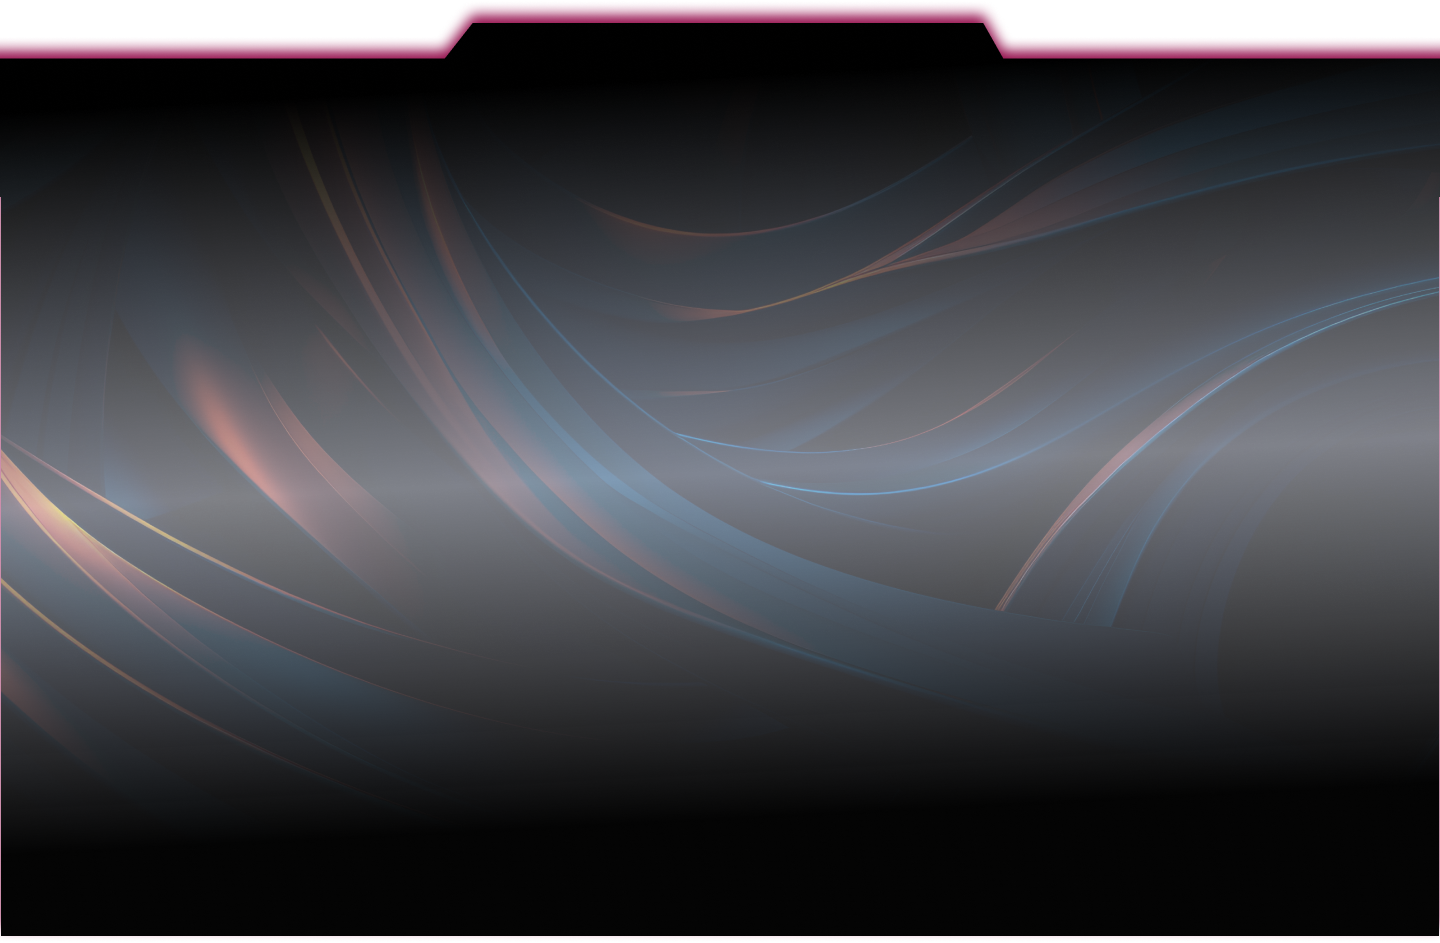
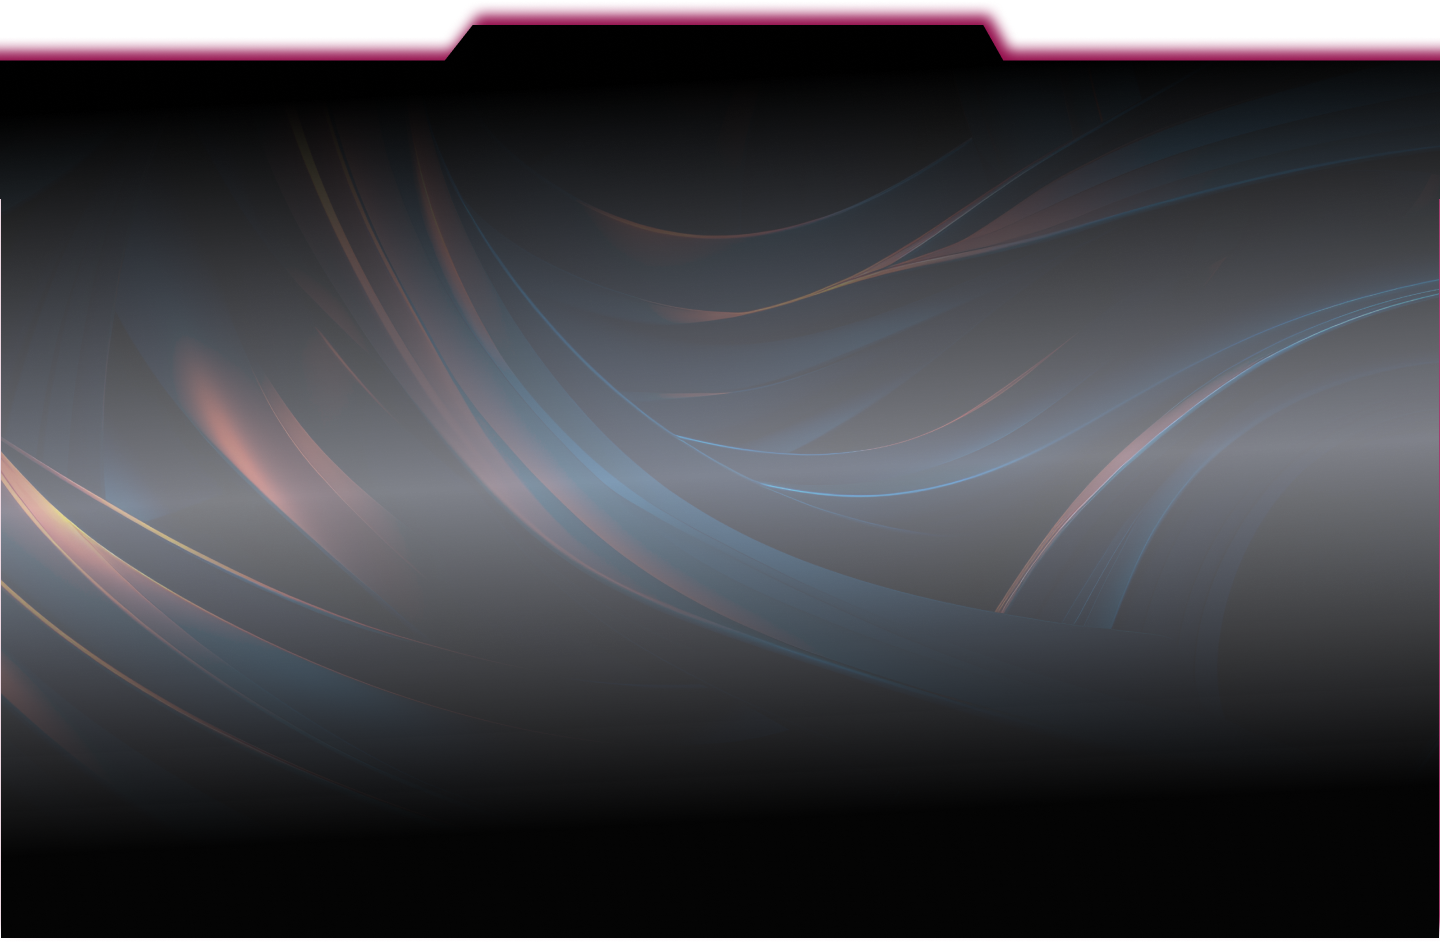
index  work section updated

diff --git a/public/frontend/css/frontend.css b/public/frontend/css/frontend.css
@@ -1218,7 +1218,7 @@ body {
 }
 .rs-img{
     position: absolute;
-    bottom: -100px;
+    bottom: -70px;
     left: 0px;
     z-index: -1;                        
 }

diff --git a/resources/views/frontend/index.blade.php b/resources/views/frontend/index.blade.php
@@ -14,41 +14,51 @@
             background-image: unset;
             backdrop-filter: unset;
         }
-        /* .custom-ctnrfluid.sticky-nav {
+        .custom-ctnrfluid.sticky-nav {
             background-image: url(/frontend/images/index/navbg.svg);
-    background-repeat: no-repeat;
-    background-size: cover;
-    background-position: center;
-    backdrop-filter: blur(29px);
-    display: flex;
-    align-items: center;
-    min-height: 106px;
-    margin-top: 14px;
-    position: fixed;
-    width: 98%;
-    left: 50%;
-    border-radius: 34px;
-    transform: translate(-50%);
-        } */
+            background-repeat: no-repeat;
+            background-size: cover;
+            background-position: center;
+            backdrop-filter: blur(29px);
+            display: flex;
+            align-items: center;
+            min-height: 106px;
+            margin-top: 14px;
+            position: fixed;
+            width: 98%;
+            left: 50%;
+            border-radius: 34px;
+            transform: translate(-50%);
+        }
 
         .smalllarrow-img {
             display: none;
         }
 
         @media (max-width: 576px) {
-            .navsmimg{
-            display: block;
-        }
-        .navsmimg{
-            top:7px;
-        }
-        .custom-ctnrfluid{
-            margin-top: 14px;
-        }
+            .custom-ctnrfluid.sticky-nav {
+                min-height:unset; 
+                background-image: url(/frontend/images/index/index-new/blurhero.svg));
+                background-repeat: no-repeat;
+                background-size: cover;
+                background-position: center;
 
-        .custom-ctnrfluid.sticky-nav{
-            margin-top: 7px;
-        }
+            }
+
+    
+        .navsmimg{
+            display: block;
+            }
+            .navsmimg{
+                top:7px;
+            }
+            .custom-ctnrfluid{
+                margin-top: 14px;
+            }
+
+            .custom-ctnrfluid.sticky-nav{
+                margin-top: 7px;
+            }
 
         }
     </style>
